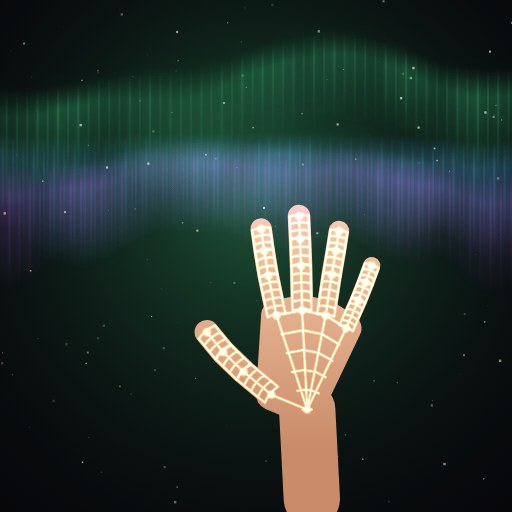
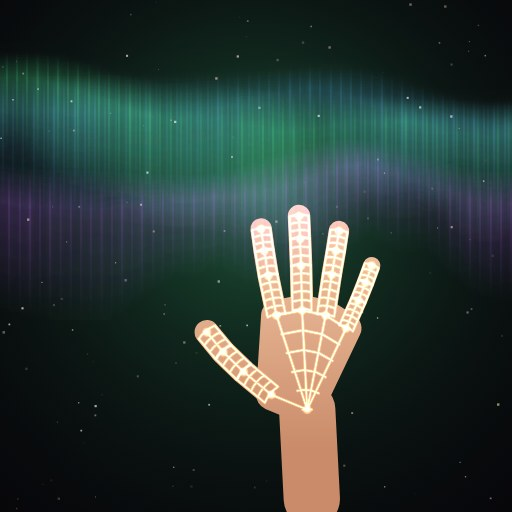
Magic Cam : pouvoirs plus légers (dégradés et caractères mis en cache)
Claude-Session: https://claude.ai/code/session_015yBfWB9uQ2hWWBeA4S8RoH

Changed region(s): [[0.0, 0.0625, 1.0, 0.5312], [0.0938, 0.5, 0.125, 0.5312]]

diff --git a/magic-cam/js/fx/pack-tech.js b/magic-cam/js/fx/pack-tech.js
@@ -1,6 +1,6 @@
 // Tech & hero powers: energy shield, neon drawing, code rain, web shooter,
 // laser eyes, angel halo.
-import { Particles, drawGlow, rand, TAU, noise1, clamp, palmPoint, rayToEdge, drawBeam, pick } from './util.js';
+import { Particles, drawGlow, rand, TAU, noise1, clamp, palmPoint, rayToEdge, drawBeam, pick, makeCanvas } from './util.js';
 
 const mainHand = (hands) => hands.filter((h) => h.presence > 0.4).sort((a, b) => b.size - a.size)[0];
 
@@ -180,6 +180,23 @@ export function matrixEffect() {
   ];
   let rgb = COLORS[0].rgb;
   let cols = [];
+  let atlas = null;
+  // Every glyph pre-drawn once (row 0 in colour, row 1 white for the heads):
+  // drawing images is much cheaper than fillText for a thousand characters a frame.
+  const glyphAtlas = (cell, col) => {
+    const canvas = makeCanvas(cell * GLYPHS.length, cell * 2);
+    const g = canvas.getContext('2d');
+    g.font = `${cell}px ui-monospace, Menlo, monospace`;
+    g.textAlign = 'center';
+    g.textBaseline = 'alphabetic';
+    GLYPHS.forEach((ch, i) => {
+      g.fillStyle = `rgb(${col.join(',')})`;
+      g.fillText(ch, i * cell + cell / 2, cell * 0.85);
+      g.fillStyle = '#eaffea';
+      g.fillText(ch, i * cell + cell / 2, cell * 1.85);
+    });
+    return { canvas, cell, rgb: col };
+  };
   return {
     id: 'matrix',
     name: 'Pluie de code',
@@ -221,17 +238,18 @@ export function matrixEffect() {
       const size = 18 * e.unit;
       ctx.fillStyle = 'rgba(0,10,0,0.25)';
       ctx.fillRect(0, 0, e.W, e.H);
-      ctx.font = `${Math.round(size)}px ui-monospace, Menlo, monospace`;
-      ctx.textAlign = 'center';
+      const cell = Math.round(size);
+      if (!atlas || atlas.cell !== cell || atlas.rgb !== rgb) atlas = glyphAtlas(cell, rgb);
       for (const c of cols) {
         for (let k = 0; k < 16; k++) {
           const y = c.y - k * size;
           if (y < -size || y > e.H + size) continue;
-          ctx.fillStyle = k === 0 ? '#eaffea' : `rgba(${rgb.join(',')},${(1 - k / 16) * 0.85})`;
-          ctx.fillText(c.chars[k], c.x + size / 2 + c.off, y);
+          const gi = GLYPHS.indexOf(c.chars[k]);
+          ctx.globalAlpha = k === 0 ? 1 : (1 - k / 16) * 0.85;
+          ctx.drawImage(atlas.canvas, gi * cell, k === 0 ? cell : 0, cell, cell, c.x + c.off, y - cell * 0.85, cell, cell);
         }
       }
-      ctx.textAlign = 'left';
+      ctx.globalAlpha = 1;
     },
   };
 }
@@ -407,6 +425,28 @@ export function laserEyesEffect() {
   };
 }
 
+// A light ray: a thin triangle fading away from its tip (cached per colour).
+const RAYS = new Map();
+function haloRay(rgb) {
+  const key = String(rgb);
+  if (!RAYS.has(key)) {
+    const c = makeCanvas(256, 32);
+    const g = c.getContext('2d');
+    const grad = g.createLinearGradient(0, 0, 256, 0);
+    grad.addColorStop(0, `rgba(${key},0.18)`);
+    grad.addColorStop(1, `rgba(${key},0)`);
+    g.fillStyle = grad;
+    g.beginPath();
+    g.moveTo(0, 16);
+    g.lineTo(256, 0);
+    g.lineTo(256, 32);
+    g.closePath();
+    g.fill();
+    RAYS.set(key, c);
+  }
+  return RAYS.get(key);
+}
+
 // ---------- Angel halo: a glowing halo above your head, light rays behind ----------
 export function haloEffect() {
   const COLORS = [
@@ -457,16 +497,11 @@ export function haloEffect() {
       for (let k = 0; k < 12; k++) {
         const a = -Math.PI / 2 + (k - 5.5) * 0.22 + Math.sin(e.t * 0.5) * 0.05;
         const L = w * (3 + noise1(e.t + k) * 0.6);
-        const grad = ctx.createLinearGradient(x, y + w, x + Math.cos(a) * L, y + w + Math.sin(a) * L);
-        grad.addColorStop(0, `rgba(${rgb.join(',')},0.18)`);
-        grad.addColorStop(1, `rgba(${rgb.join(',')},0)`);
-        ctx.fillStyle = grad;
-        ctx.beginPath();
-        ctx.moveTo(x, y + w);
-        ctx.lineTo(x + Math.cos(a - 0.06) * L, y + w + Math.sin(a - 0.06) * L);
-        ctx.lineTo(x + Math.cos(a + 0.06) * L, y + w + Math.sin(a + 0.06) * L);
-        ctx.closePath();
-        ctx.fill();
+        ctx.save();
+        ctx.translate(x, y + w);
+        ctx.rotate(a);
+        ctx.drawImage(haloRay(rgb), 0, -L * 0.06, L, L * 0.12);
+        ctx.restore();
       }
       ctx.save();
       ctx.translate(x, y + Math.sin(e.t * 2) * w * 0.04);

diff --git a/magic-cam/js/fx/pack-cosmic.js b/magic-cam/js/fx/pack-cosmic.js
@@ -1,6 +1,6 @@
 // Cosmic powers: planet, crystal ball, aurora, shooting stars, comet
 // fingertips, rainbow.
-import { Particles, drawGlow, rand, TAU, noise1, clamp, dist, makeCanvas } from './util.js';
+import { Particles, drawGlow, rand, TAU, noise1, clamp, dist, makeCanvas, strip } from './util.js';
 
 const mainHand = (hands) => hands.filter((h) => h.presence > 0.4).sort((a, b) => b.size - a.size)[0];
 
@@ -206,6 +206,11 @@ export function crystalBallEffect() {
 }
 
 // ---------- Aurora: northern lights across the sky, steered by your hands ----------
+const AURORA_STOPS = [
+  [0, 0],
+  [0.25, 1],
+  [1, 0],
+];
 export function auroraEffect() {
   const SETS = [
     {
@@ -264,14 +269,11 @@ export function auroraEffect() {
           const y = baseY + noise1(u * 4 + e.t * 0.4 + b * 10) * e.H * 0.08;
           const h = e.H * (0.18 + 0.12 * Math.abs(noise1(u * 6 + e.t * 0.6 + b)));
           const a = (0.07 + 0.06 * Math.abs(noise1(u * 9 + e.t + b * 3))) * bright;
-          const grad = ctx.createLinearGradient(0, y, 0, y + h);
-          grad.addColorStop(0, `rgba(${col.join(',')},0)`);
-          grad.addColorStop(0.25, `rgba(${col.join(',')},${a})`);
-          grad.addColorStop(1, `rgba(${col.join(',')},0)`);
-          ctx.fillStyle = grad;
-          ctx.fillRect(x, y, (e.W * 1.2) / steps + 2, h);
+          ctx.globalAlpha = Math.min(1, a);
+          ctx.drawImage(strip(col, AURORA_STOPS, true), x, y, (e.W * 1.2) / steps + 2, h);
         }
       }
+      ctx.globalAlpha = 1;
       ctx.globalCompositeOperation = 'source-over';
     },
   };

diff --git a/magic-cam/js/fx/pack-elements.js b/magic-cam/js/fx/pack-elements.js
@@ -1,6 +1,6 @@
 // Elemental powers: fire dragon, tornado, meteor shower, lava orb, mini sun,
 // sonic clap.
-import { Particles, drawGlow, rand, TAU, noise1, clamp, dist, fireSprite, MESHES, rockMesh, drawMesh, rotMatrix } from './util.js';
+import { Particles, drawGlow, rand, TAU, noise1, clamp, dist, fireSprite, MESHES, rockMesh, drawMesh, rotMatrix, strip } from './util.js';
 
 const mainHand = (hands) => hands.filter((h) => h.presence > 0.4).sort((a, b) => b.size - a.size)[0];
 
@@ -473,18 +473,18 @@ export function sunEffect() {
       ctx.globalCompositeOperation = 'lighter';
       drawGlow(ctx, rgb, x, y, R * 5, 0.4, 0.05);
       // Rotating rays.
+      const ray = strip(rgb, [
+        [0, 0.5],
+        [1, 0],
+      ]);
       for (let k = 0; k < 16; k++) {
         const a = (k / 16) * TAU + e.t * 0.3;
         const L = R * (2.2 + 0.6 * noise1(e.t * 2 + k));
-        const grad = ctx.createLinearGradient(x, y, x + Math.cos(a) * L, y + Math.sin(a) * L);
-        grad.addColorStop(0, `rgba(${rgb.join(',')},0.5)`);
-        grad.addColorStop(1, `rgba(${rgb.join(',')},0)`);
-        ctx.strokeStyle = grad;
-        ctx.lineWidth = R * 0.18;
-        ctx.beginPath();
-        ctx.moveTo(x, y);
-        ctx.lineTo(x + Math.cos(a) * L, y + Math.sin(a) * L);
-        ctx.stroke();
+        ctx.save();
+        ctx.translate(x, y);
+        ctx.rotate(a);
+        ctx.drawImage(ray, 0, -R * 0.09, L, R * 0.18);
+        ctx.restore();
       }
       // Solar flares: arcs looping off the surface.
       ctx.lineWidth = 3 * e.unit;

diff --git a/magic-cam/js/fx/util.js b/magic-cam/js/fx/util.js
@@ -33,6 +33,25 @@ export function makeCanvas(w, h) {
   return c;
 }
 
+// Cached colour ramps (alpha along the strip), stretched with drawImage
+// instead of building a new gradient every frame. stops: [[position, alpha], ...].
+const STRIPS = new Map();
+export function strip(rgb, stops, vertical = false) {
+  const key = `${rgb}|${stops}|${vertical}`;
+  let c = STRIPS.get(key);
+  if (!c) {
+    c = vertical ? makeCanvas(4, 128) : makeCanvas(128, 4);
+    const g = c.getContext('2d');
+    const grad = vertical ? g.createLinearGradient(0, 0, 0, 128) : g.createLinearGradient(0, 0, 128, 0);
+    for (const [pos, a] of stops) grad.addColorStop(pos, `rgba(${rgb.join(',')},${a})`);
+    g.fillStyle = grad;
+    g.fillRect(0, 0, c.width, c.height);
+    if (STRIPS.size > 64) STRIPS.clear();
+    STRIPS.set(key, c);
+  }
+  return c;
+}
+
 export function hexToRgb(hex) {
   const n = parseInt(hex.replace('#', ''), 16);
   return [(n >> 16) & 255, (n >> 8) & 255, n & 255];

diff --git a/magic-cam/sw.js b/magic-cam/sw.js
@@ -1,7 +1,7 @@
 // Magic Cam service worker: works offline and keeps the installed app up to
 // date. Every launch fetches the newest files first (cache only as fallback),
 // and a new version of this file takes over immediately.
-const VERSION = 'magic-cam-v11';
+const VERSION = 'magic-cam-v12';
 const LIB = 'magic-cam-lib';
 const POWERS = [
   'kamehameha',
